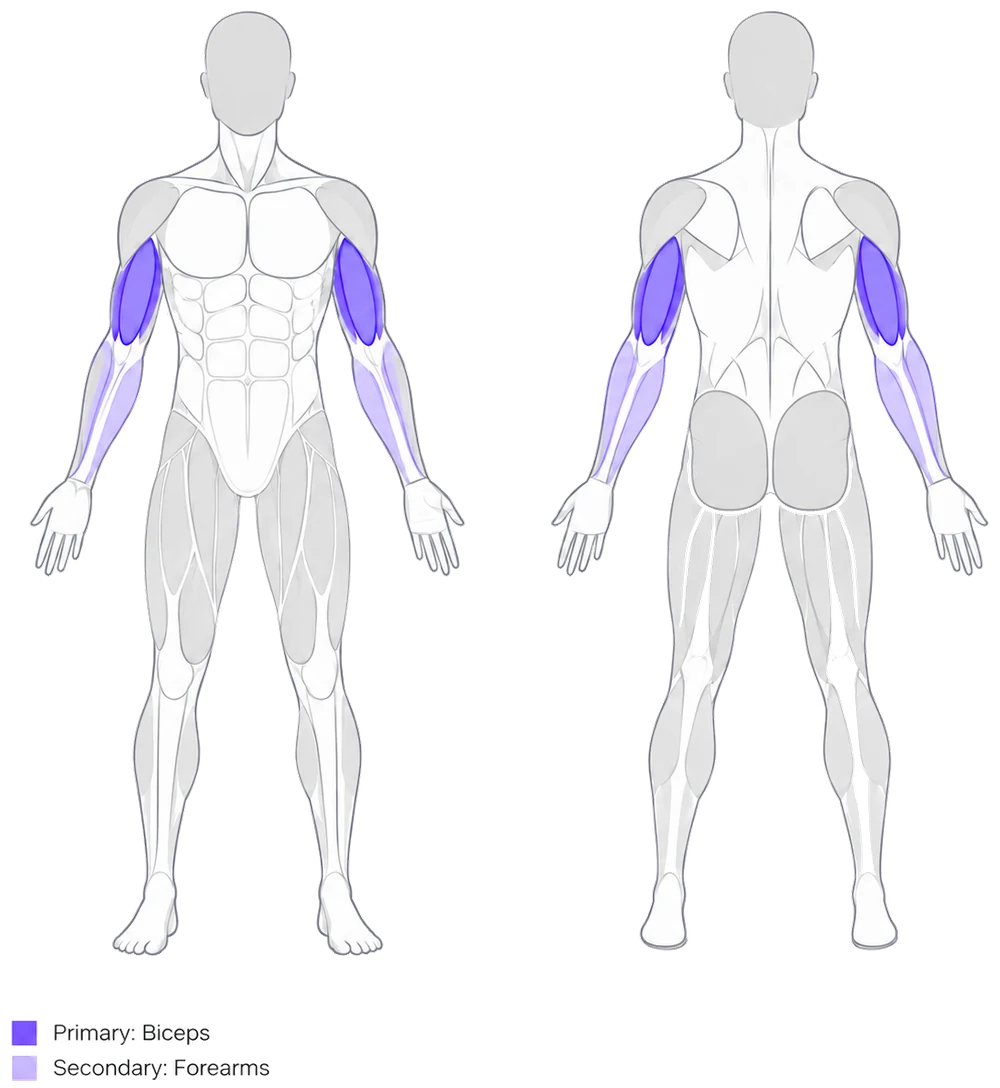
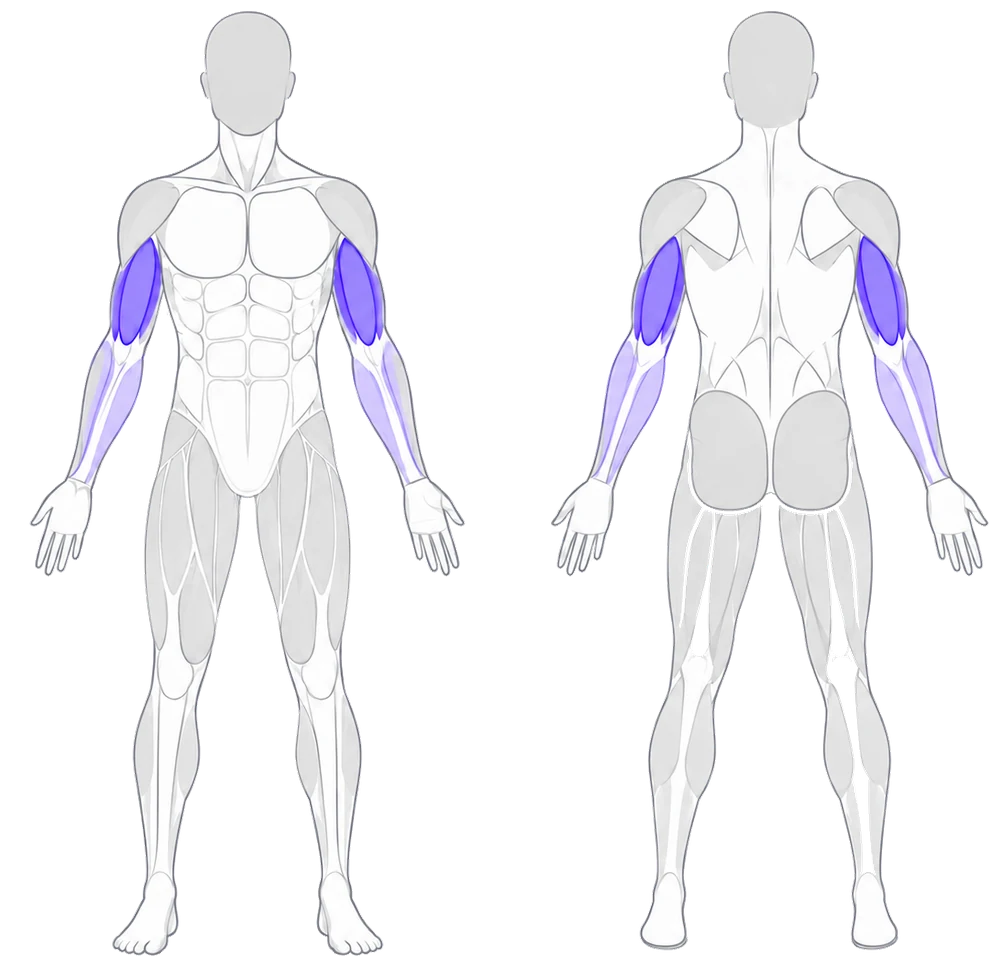
feat(plans): the coverage card uses the real anatomical plates
The plan pages drew their own mannequin next to a set of proper anatomical
plates the app already ships for every movement. They now use the artwork.

A plan has no plate of its own, so the card layers the plates of the movements
in the plan. The figures share a base body, so a darken blend leaves exactly
the union of the highlighted muscles: what the week trains, in the same
illustration style the movement pages use. Darken rather than multiply because
multiply accumulates the grey each plate draws for the untrained body, which
turned a nine-movement week nearly black.

Three of the sixteen plates draw the figure in a different pose, so a plan
containing them shows a faint doubled outline on the limbs. The highlights
still land correctly, which is what the card is for.

The bicep curl plate had its legend baked into the image in English, wrong on
a bilingual page and wrong inside a composite; the art script now strips a
trailing caption band, and that plate was regenerated without it.

Claude-Session: https://claude.ai/code/session_01SXGriVTrbuRhC31Znr5fxV

diff --git a/frontend/src/components/plans/PlanMuscleCoverage.tsx b/frontend/src/components/plans/PlanMuscleCoverage.tsx
@@ -1,15 +1,14 @@
 import type { PlanItem } from "../../api";
 import { useI18n } from "../../lib/i18n";
-import type { Muscle } from "../../lib/movementDetail";
+import { movementDetail, type Muscle } from "../../lib/movementDetail";
 import { planCoverage } from "../../lib/planMuscles";
-import MuscleMap from "../movements/MuscleMap";
 
 interface Props {
   items: PlanItem[];
   className?: string;
-  /** Drop the mannequins and keep the named groups. For a column too narrow to show two bodies
-   *  side by side at a size where the highlights are readable — under about 320px they are two
-   *  grey smudges, which is worse than not drawing them. */
+  /** Drop the anatomical plate and keep the named groups. For a column too narrow to show the two
+   *  bodies at a size where the highlights are readable — under about 320px they are two grey
+   *  smudges, which is worse than not drawing them. */
   compact?: boolean;
 }
 
@@ -18,6 +17,29 @@ interface Props {
  * worked groups lit, and the groups named beside them. The difference is what feeds it — a whole
  * week's items aggregated by `lib/planMuscles.ts` rather than one movement's authored lists — so a
  * user can see their week's shape without opening sixteen movement pages.
+ *
+ * THE FIGURE IS THE SHIPPED ARTWORK, STACKED — not a drawing of our own. Every catalog movement
+ * already has an anatomical plate under `public/movements/muscles-worked/`, the same plate its
+ * movement detail page shows, and they are all the SAME base body with different muscles tinted.
+ * So the plan's plates layered with `mix-blend-mode: darken` come out as exactly the union of
+ * their highlights on one pair of bodies: a week's coverage drawn by the illustrator rather than
+ * approximated by us, and primary still distinguishable from secondary (deep violet wins over the
+ * pale one, which is the right answer when one movement's supporting group is another's prime
+ * mover).
+ *
+ * WHY `darken` AND NOT `multiply`, which is the usual reflex for stacking artwork: multiply
+ * ACCUMULATES. Every plate draws the whole body, so the grey head and the grey untrained muscles
+ * are multiplied once per layer — measured on a nine-movement week, the figures came out nearly
+ * black. `darken` takes the per-channel minimum, so a grey drawn nine times is still that grey and
+ * only a genuinely tinted muscle darkens. Anything that stacks more than two or three plates has
+ * to use it.
+ *
+ * Two consequences worth knowing before editing:
+ *  - the blend needs an OPAQUE, light backdrop to behave, hence the explicit `bg-surface` on the
+ *    stack, and `isolate` so the blending stops there instead of reaching the card behind it.
+ *  - one plate carries anterior AND posterior, so there is ONE image and no "Anterior"/"Posterior"
+ *    captions left to write; the legend beside it names the groups, which is also why the layers
+ *    carry no alt text of their own.
  *
  * Deliberately static: no transitions, so there is nothing for `useReducedMotion` to turn off.
  *
@@ -30,6 +52,10 @@ interface Props {
 export default function PlanMuscleCoverage({ items, className, compact }: Props) {
   const { t, lang } = useI18n();
   const { primary, secondary, gaps } = planCoverage(items);
+  const plates = planPlates(items);
+  // Nothing to layer is not an empty frame: a legend column laid out as if a figure sat beside it
+  // is a hole in the card, so the figure's absence collapses the row instead.
+  const showFigure = !compact && plates.length > 0;
 
   if (primary.length === 0 && secondary.length === 0) return null;
 
@@ -48,42 +74,42 @@ export default function PlanMuscleCoverage({ items, className, compact }: Props)
           zh-Hant. `compact` is the container signal, passed by the page that owns the layout. */}
       <div
         className={
-          compact ? "mt-3" : "mt-3 flex flex-col items-stretch gap-4 sm:flex-row sm:items-center"
+          showFigure
+            ? // The group is CAPPED and centred rather than spread across the card. Left to grow,
+              // the figure's flex column took ~1600px of a full-width card and centred a 200px
+              // image in it, parking the legend against the far edge with a lake of white between
+              // the two things the reader is meant to compare.
+              "mt-3 mx-auto flex max-w-[600px] flex-col items-stretch gap-6 sm:flex-row sm:items-center"
+            : "mt-3"
         }
       >
-        {!compact && (
-          // Sized down from the movement page's 208px: this card sits under a whole week of day
-          // bands rather than being the point of its own page.
-          <div className="mx-auto flex max-w-[380px] flex-1 items-end justify-evenly">
-            <figure className="text-center">
-              <MuscleMap
-                side="front"
-                primary={primary}
-                secondary={secondary}
-                className="h-[164px] w-auto"
-              />
-              <figcaption className="mt-1.5 text-[11px] font-medium text-muted">
-                {t("detail.anterior")}
-              </figcaption>
-            </figure>
-            <figure className="text-center">
-              <MuscleMap
-                side="back"
-                primary={primary}
-                secondary={secondary}
-                className="h-[164px] w-auto"
-              />
-              <figcaption className="mt-1.5 text-[11px] font-medium text-muted">
-                {t("detail.posterior")}
-              </figcaption>
-            </figure>
+        {showFigure && (
+          <div className="flex shrink-0 justify-center">
+            {/* The box is the plates' own ratio (1000x986), sized down from the movement page's
+                250px because this card sits under a whole week of day bands rather than being the
+                point of its own page. */}
+            <div className="relative isolate aspect-[1000/986] h-[232px] bg-surface">
+              {plates.map(({ movement, plate }) => (
+                <img
+                  key={movement}
+                  src={plate}
+                  alt=""
+                  loading="lazy"
+                  decoding="async"
+                  className="absolute inset-0 h-full w-full object-contain"
+                  style={{ mixBlendMode: "darken" }}
+                />
+              ))}
+            </div>
           </div>
         )}
 
         {/* A stack, the same shape the movement page's legend uses -- one name per line reads at a
             glance where a ragged wrapping flow does not, and a fixed column can never be narrower
             than a label. Compact drops the fixed width and takes the card. */}
-        <div className={compact ? "min-w-0 space-y-4" : "min-w-0 shrink-0 space-y-4 sm:w-[236px]"}>
+        <div
+          className={showFigure ? "min-w-0 flex-1 space-y-4" : "min-w-0 space-y-4"}
+        >
           <MuscleGroupList muscles={primary} tone="primary" />
           <MuscleGroupList muscles={secondary} tone="secondary" />
         </div>
@@ -94,6 +120,22 @@ export default function PlanMuscleCoverage({ items, className, compact }: Props)
       </p>
     </section>
   );
+}
+
+/** The plates to layer: one per DISTINCT movement in the plan, in the order the plan lists them.
+ *  Deduplicated because a week that squats three times would otherwise stack the identical image
+ *  three times — invisible under multiply, but three downloads and three layers to composite. A
+ *  movement outside the catalog, or one whose entry carries no plate, contributes nothing. */
+function planPlates(items: PlanItem[]): { movement: string; plate: string }[] {
+  const seen = new Set<string>();
+  const plates: { movement: string; plate: string }[] = [];
+  for (const { movement } of items) {
+    if (seen.has(movement)) continue;
+    seen.add(movement);
+    const plate = movementDetail(movement)?.plate;
+    if (plate) plates.push({ movement, plate });
+  }
+  return plates;
 }
 
 /** One tone's worth of groups, with the dot treatment the movement detail page's legend uses:
@@ -108,7 +150,9 @@ function MuscleGroupList({ muscles, tone }: { muscles: Muscle[]; tone: "primary"
         <span className={`h-2.5 w-2.5 rounded-full ${dot}`} />
         {t(tone === "primary" ? "detail.primary" : "detail.secondary")}
       </p>
-      <ul className="pl-[18px]">
+      {/* Two columns: a plan lights far more groups than a single movement does, and one name per
+          line turned a fifteen-group week into a column taller than the figure beside it. */}
+      <ul className="grid grid-cols-2 gap-x-3 pl-[18px]">
         {/* `whitespace-nowrap`: a two-word label ("lower back") that wraps leaves its dot alone on
             the line above, which reads as a group with no name. */}
         {muscles.map((m) => (

diff --git a/frontend/src/test/components.PlanMuscleCoverage.test.tsx b/frontend/src/test/components.PlanMuscleCoverage.test.tsx
@@ -1,0 +1,56 @@
+import { describe, it, expect, vi } from "vitest";
+import { render, screen } from "@testing-library/react";
+import { I18nProvider } from "../lib/i18n";
+import PlanMuscleCoverage from "../components/plans/PlanMuscleCoverage";
+import type { PlanItem } from "../api";
+
+// Every one of the sixteen catalog movements ships a plate today, so the "no artwork" branch is
+// unreachable through real data -- and a card that renders an empty framed box for a movement
+// added to the catalog before its illustration arrives is exactly the regression worth pinning.
+// Stripping `plate` and nothing else keeps the muscle lists intact, so the card still has groups
+// to name and the only thing missing is the picture.
+vi.mock("../lib/movementDetail", async () => {
+  const actual = await vi.importActual<typeof import("../lib/movementDetail")>(
+    "../lib/movementDetail"
+  );
+  return {
+    ...actual,
+    movementDetail: (name: string) => {
+      const detail = actual.movementDetail(name);
+      if (!detail) return undefined;
+      const { plate: _plate, ...withoutPlate } = detail;
+      return withoutPlate;
+    },
+  };
+});
+
+function item(day: number, movement: string): PlanItem {
+  return {
+    id: `${movement}-${day}`,
+    plan_id: "p1",
+    day_index: day,
+    position: 0,
+    movement,
+    sets: 3,
+    reps: 10,
+    notes: null,
+    completed_at: null,
+    analysis_id: null,
+    created_at: "2026-01-01T00:00:00Z",
+  };
+}
+
+describe("PlanMuscleCoverage without artwork", () => {
+  it("keeps the named groups but draws no image box when no movement has a plate", () => {
+    const { container } = render(
+      <I18nProvider>
+        <PlanMuscleCoverage items={[item(1, "Squat"), item(2, "Push-up")]} />
+      </I18nProvider>
+    );
+
+    expect(screen.getByRole("heading", { name: /what this plan trains/i })).toBeInTheDocument();
+    expect(screen.getByText("Quadriceps")).toBeInTheDocument();
+    expect(screen.getByText("Chest")).toBeInTheDocument();
+    expect(container.querySelectorAll("img").length).toBe(0);
+  });
+});

diff --git a/frontend/src/test/components.PlanPreview.test.tsx b/frontend/src/test/components.PlanPreview.test.tsx
@@ -117,11 +117,36 @@ describe("PlanPreview muscle coverage", () => {
   });
 
   it("drops the body maps but keeps the groups when compact", () => {
-    renderPreview([item(1, "Squat")], true);
+    const { container } = renderPreview([item(1, "Squat")], true);
 
     expect(screen.getByRole("heading", { name: /what this plan trains/i })).toBeInTheDocument();
     expect(screen.getByText("Quadriceps")).toBeInTheDocument();
     expect(screen.queryByText("Anterior")).toBeNull();
     expect(screen.queryByText("Posterior")).toBeNull();
+    // The plate is the thing compact drops; the groups beside it are the thing it keeps.
+    expect(container.querySelectorAll("img").length).toBe(0);
+  });
+
+  it("layers one shipped plate per distinct movement", () => {
+    // Squat twice: the union of two identical images is the one image, so the repeat must not
+    // become a second layer to download and composite.
+    renderPreview([item(1, "Squat"), item(2, "Squat"), item(3, "Push-up")]);
+
+    const card = screen.getByRole("heading", { name: /what this plan trains/i }).closest("section");
+    // `alt=""` makes these presentational, so they have no `img` ROLE to query by -- the legend
+    // beside them is what names the muscles to a screen reader.
+    const layers = Array.from((card as HTMLElement).querySelectorAll("img"));
+    expect(layers.map((img) => img.getAttribute("src"))).toEqual([
+      "/movements/muscles-worked/squat.webp",
+      "/movements/muscles-worked/push-up.webp",
+    ]);
+    for (const layer of layers) {
+      // `darken` (not multiply, which accumulates the grey of every layer) is what makes the
+      // stack read as ONE body with both movements' muscles lit.
+      expect(layer.style.mixBlendMode).toBe("darken");
+      expect(layer.getAttribute("alt")).toBe("");
+      expect(layer.getAttribute("loading")).toBe("lazy");
+      expect(layer.getAttribute("decoding")).toBe("async");
+    }
   });
 });

diff --git a/scripts/prep_movement_detail_art.py b/scripts/prep_movement_detail_art.py
@@ -12,7 +12,7 @@ each, and the page must not ship them.
     frontend/public/movements/steps/<movement>-<n>.png      one figure per step, in order
     frontend/public/movements/muscles-worked/<movement>.png  anterior + posterior in one image
 
-Three things the conversion does:
+Four things the conversion does:
 
   * TRIM. The sources sit in a wide margin of near-white; cropping to the ink is most of the
     saving (~900 KB -> ~20 KB for a step figure).
@@ -23,6 +23,8 @@ Three things the conversion does:
     tab, where an opaque plate would render as a visible rectangle.
   * MATCH THE SCALE ACROSS A STEP SET. A movement's step figures are measured and scaled
     TOGETHER, never one at a time -- see prepare_steps for why that is the whole ballgame.
+  * STRIP A BAKED CAPTION off a plate. One source (bicep-curl) arrived with its legend drawn
+    INTO the image, in English -- see _strip_caption for why that has to go.
 
 Usage (from the repo root):
     .venv\\Scripts\\python.exe scripts/prep_movement_detail_art.py
@@ -104,11 +106,50 @@ def _save(image: Image.Image, path: Path) -> None:
     print(f"{path.parent.name}/{path.name} {image.size} {path.stat().st_size // 1024} KB")
 
 
+def _strip_caption(art: Image.Image, path: Path) -> Image.Image:
+    """A plate whose source has a legend drawn into it, cut back to just the bodies.
+
+    WHY: the app names the worked groups itself, in the user's language, in the legend beside the
+    plate. A caption baked into the artwork says the same thing a second time, in English only, on
+    a bilingual page -- and the plan pages STACK several plates on top of each other, where two
+    sets of baked text would print over one another. Only bicep-curl.png arrived with one, but the
+    next hand-supplied source may too, so this is a rule and not a one-off crop.
+
+    HOW, without a magic y-coordinate that would only ever fit one image: after the knockout the
+    caption is separated from the figures by a band of fully transparent rows, and that band is the
+    only interior one any of the sixteen plates has. A run of empty rows is the caption's if it
+
+      * does not start at the top (that run is the trim's own margin),
+      * has something drawn BELOW it (otherwise it is the trim's bottom margin), and
+      * is deeper than that margin -- PAD rows -- which is what separates the gap above a caption
+        from the narrower gaps BETWEEN its lines.
+
+    The cut keeps PAD rows below the feet, so a stripped plate ends with the same margin as the
+    fifteen that never had a caption.
+    """
+    alpha = art.split()[3]
+    width, height = art.size
+    empty = [alpha.crop((0, y, width, y + 1)).getextrema()[1] == 0 for y in range(height)]
+
+    y = 0
+    while y < height:
+        if not empty[y]:
+            y += 1
+            continue
+        start = y
+        while y < height and empty[y]:
+            y += 1
+        if start > 0 and y < height and y - start > PAD:
+            print(f"{path.name}: caption below y={start} stripped")
+            return art.crop((0, 0, width, min(height, start + PAD)))
+    return art
+
+
 def prepare_plates(directory: Path) -> int:
     """One plate per movement, each independent — nothing to keep in step with."""
     sources = sorted(directory.glob("*.png"))
     for source in sources:
-        art = _trim_and_knockout(source)
+        art = _strip_caption(_trim_and_knockout(source), source)
         if art.width > PLATE_WIDTH:
             art = art.resize(
                 (PLATE_WIDTH, round(art.height * PLATE_WIDTH / art.width)), Image.LANCZOS
